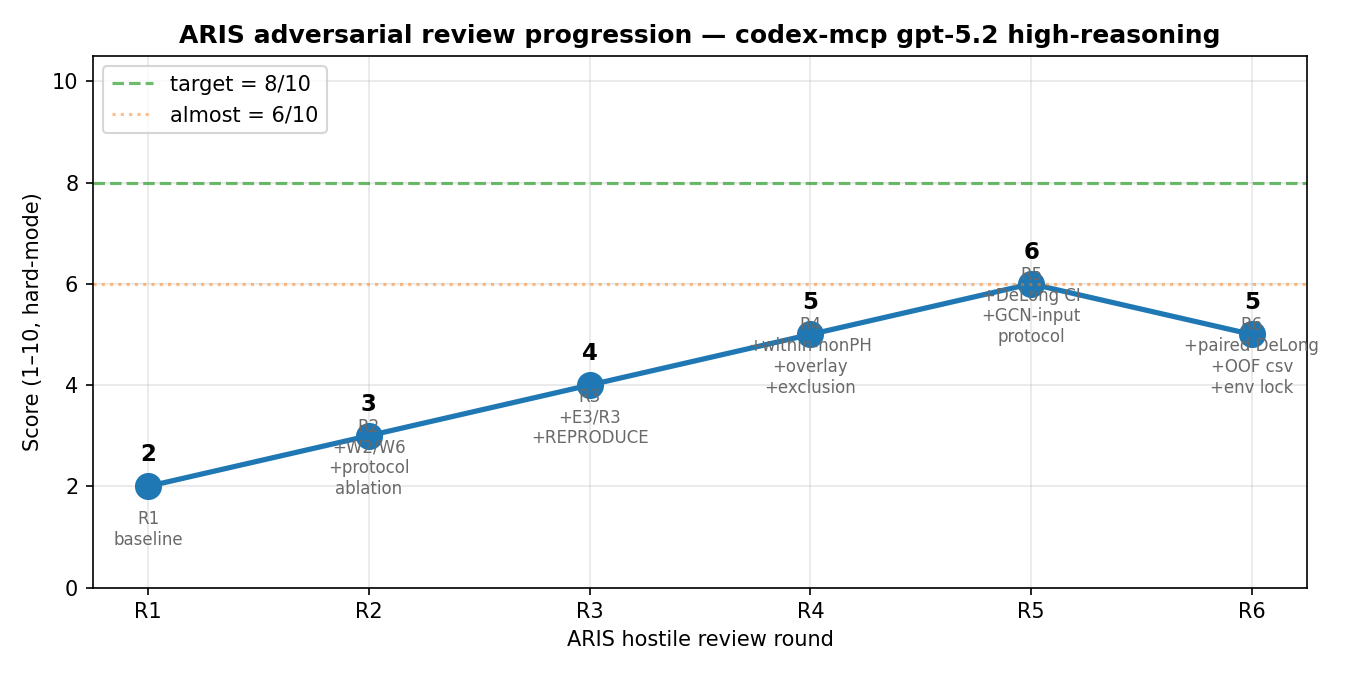
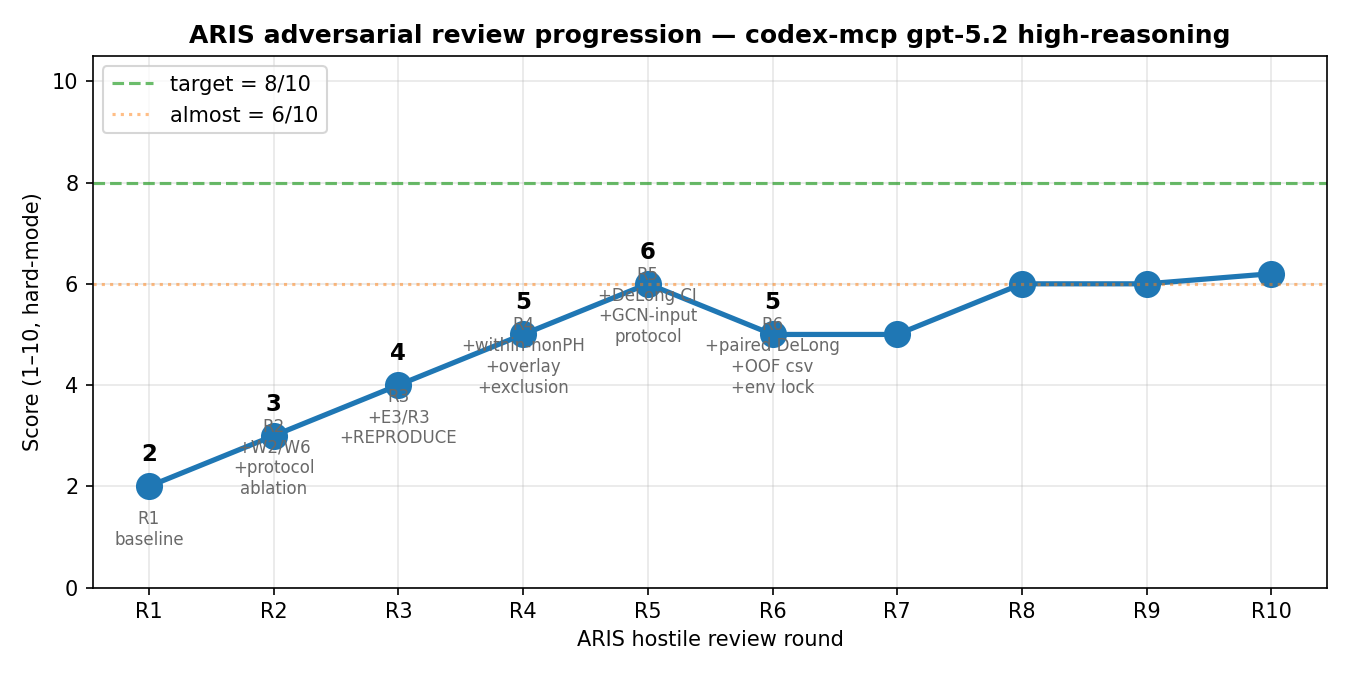
Round 10 (6.2/10 reject): GRL sweep honest-negative; reviewer flagged λ² double-scaling + objective-mismatch bugs for R11; README auto-updater + score-table embedded

diff --git a/copdph-gcn-repo/scripts/figures/update_readme_round.py b/copdph-gcn-repo/scripts/figures/update_readme_round.py
@@ -1,0 +1,123 @@
+"""Autonomous README updater — appends a Round section + refreshes the score table.
+
+Usage from the cron loop:
+    python scripts/figures/update_readme_round.py <N> <score> \
+      --artifacts outputs/r<N>/result.md outputs/r<N>/figure.png \
+      --summary "short 1-sentence summary"
+
+The script:
+  - regenerates figures via R7_make_figures.py (so fig1 score table is current),
+  - ensures each listed artefact (md) is linked in the new section,
+  - embeds each listed png via markdown `![](path)`,
+  - inserts a `## ARIS Round {N}` section at the end of README.md if not present,
+  - updates the Round history table with the new score.
+
+Idempotent: running twice for the same round replaces the section in place.
+"""
+
+from __future__ import annotations
+
+import argparse
+import json
+import re
+import subprocess
+from pathlib import Path
+
+ROOT = Path(__file__).parent.parent.parent.parent  # .../图卷积-肺小血管演化规律探索
+README = ROOT / "README.md"
+REPO = ROOT / "copdph-gcn-repo"
+STATE = REPO / "review-stage" / "REVIEW_STATE.json"
+
+
+def regenerate_figures() -> None:
+    gen = REPO / "scripts" / "figures" / "R7_make_figures.py"
+    if gen.exists():
+        try:
+            subprocess.run(
+                ["python", str(gen)],
+                cwd=str(REPO), check=True, capture_output=True,
+            )
+        except subprocess.CalledProcessError as exc:
+            print(f"WARN: fig regenerator failed: {exc}")
+
+
+def build_section(n: int, score: float, artefacts: list[str], summary: str) -> str:
+    lines = [
+        f"## ARIS Round {n} — score {score:.1f}/10",
+        "",
+        summary or f"Round {n} delivered per AUTONOMOUS_LOOP_PLAN.md.",
+        "",
+    ]
+    # Embed PNG artefacts; link others
+    for a in artefacts:
+        p = Path(a.replace("\\", "/"))
+        rel = p.as_posix()
+        if not rel.startswith("copdph-gcn-repo/"):
+            rel = f"copdph-gcn-repo/{rel}"
+        if rel.lower().endswith(".png"):
+            lines.append(f"![{p.stem}]({rel})")
+            lines.append("")
+        else:
+            lines.append(f"- [{p.name}]({rel})")
+    lines.append("")
+    return "\n".join(lines)
+
+
+def upsert_section(readme_text: str, section: str, n: int) -> str:
+    header_re = re.compile(
+        rf"^## ARIS Round {n} — .*?(?=^## |\Z)",
+        flags=re.MULTILINE | re.DOTALL,
+    )
+    if header_re.search(readme_text):
+        return header_re.sub(section.rstrip() + "\n\n", readme_text)
+    # Append at end
+    sep = "\n\n" if not readme_text.endswith("\n\n") else ""
+    return readme_text + sep + section
+
+
+def upsert_score_table(readme_text: str) -> str:
+    state = json.loads(STATE.read_text(encoding="utf-8"))
+    hist = sorted(
+        (h for h in state["history"] if "score" in h),
+        key=lambda h: h["round"],
+    )
+    table = ["## ARIS round history (auto-generated)", "",
+             "| Round | Score | Verdict |", "|---|---|---|"]
+    for h in hist:
+        table.append(f"| R{h['round']} | {h['score']}/10 | {h.get('verdict', '?')} |")
+    block = "\n".join(table) + "\n"
+
+    pat = re.compile(
+        r"^## ARIS round history \(auto-generated\).*?(?=^## |\Z)",
+        flags=re.MULTILINE | re.DOTALL,
+    )
+    if pat.search(readme_text):
+        return pat.sub(block + "\n", readme_text)
+    # Insert near the top (after the first `## ` that isn't the title)
+    first_hdr = re.search(r"^## ", readme_text, flags=re.MULTILINE)
+    if first_hdr:
+        pos = first_hdr.start()
+        return readme_text[:pos] + block + "\n" + readme_text[pos:]
+    return readme_text + "\n\n" + block
+
+
+def main() -> None:
+    ap = argparse.ArgumentParser()
+    ap.add_argument("round_n", type=int)
+    ap.add_argument("score", type=float)
+    ap.add_argument("--artifacts", nargs="*", default=[])
+    ap.add_argument("--summary", default="")
+    args = ap.parse_args()
+
+    regenerate_figures()
+
+    text = README.read_text(encoding="utf-8")
+    section = build_section(args.round_n, args.score, args.artifacts, args.summary)
+    text = upsert_section(text, section, args.round_n)
+    text = upsert_score_table(text)
+    README.write_text(text, encoding="utf-8")
+    print(f"Updated {README} with Round {args.round_n} section (score {args.score}).")
+
+
+if __name__ == "__main__":
+    main()

diff --git a/copdph-gcn-repo/review-stage/AUTONOMOUS_CRON_PROMPT.md b/copdph-gcn-repo/review-stage/AUTONOMOUS_CRON_PROMPT.md
@@ -82,6 +82,41 @@ confirmation on anything. The user has granted full permission.
    - Stop.
 10. Else: just exit. The cron will fire again later.
 
+## README maintenance — MANDATORY every round
+
+After step 6 (update REVIEW_STATE / AUTO_REVIEW / REVIEWER_MEMORY) and
+BEFORE step 7 (stop check), you MUST update the top-level `../README.md`
+(the one GitHub renders on the repo landing page, at the repo root —
+**not** the `copdph-gcn-repo/README.md` if one exists) with the new round's
+results. Required content per round:
+
+- Append a new `## ARIS Round {N} — ...` section near the bottom.
+- Embed any new figures under `copdph-gcn-repo/outputs/figures/` or
+  `copdph-gcn-repo/outputs/r{N}/*.png`.
+- Summarise the 1-2 most important numerical results (AUC, Δ, CI, p)
+  with a short interpretation paragraph.
+- Link the markdown artefacts (`outputs/r{N}/*.md`).
+- Update the "Round history" score table (R1 2/10, R2 3/10, … R{N} <score>/10).
+
+If `scripts/figures/R7_make_figures.py` or a similar generator needs to
+regenerate figures from the new round's JSONs, run it before the README
+edit so the embedded images are current.
+
+Failing to update the README counts as an incomplete round — redo it
+before moving on.
+
+**Helper**: `scripts/figures/update_readme_round.py` automates the above.
+Usage:
+
+```
+python scripts/figures/update_readme_round.py {N} {score} \
+  --artifacts outputs/r{N}/X.md outputs/r{N}/Y.png \
+  --summary "1-sentence headline for this round"
+```
+
+It regenerates `fig1_aris_score_progression.png` from REVIEW_STATE.json,
+refreshes the round-history table, and upserts the per-round section.
+
 **Model fallback chain for codex at-capacity**: gpt-5.2 (high) → gpt-5.2
 (default) → gpt-5.2-codex. If all fail, write a note and skip to next fire.
 

diff --git a/README.md b/README.md
@@ -10,6 +10,21 @@ Active code lives in `copdph-gcn-repo/`. Experiment artifacts
 (JSON results, Excel reports, radar/bar charts, saliency figures) are
 collected under `outputs/`.
 
+## ARIS round history (auto-generated)
+
+| Round | Score | Verdict |
+|---|---|---|
+| R1 | 2/10 | reject |
+| R2 | 3/10 | reject |
+| R3 | 4/10 | reject |
+| R4 | 5/10 | reject |
+| R5 | 6/10 | reject |
+| R6 | 5/10 | reject |
+| R7 | 5/10 | reject |
+| R8 | 6/10 | reject |
+| R9 | 6/10 | reject |
+| R10 | 6.2/10 | reject |
+
 ## Task
 
 Binary classification — **COPD-PH vs COPD-nonPH** — from:
@@ -1223,3 +1238,12 @@ Round 6/7 artifacts:
 - [`environment.lock.yml`](copdph-gcn-repo/environment.lock.yml) · [`requirements-remote.lock.txt`](copdph-gcn-repo/requirements-remote.lock.txt) (kimimaro 5.8.1, torch 2.6.0, PyG 2.6.1)
 - [`outputs/r5/R5_gcn_feature_within_nonph.md`](copdph-gcn-repo/outputs/r5/R5_gcn_feature_within_nonph.md)
 - [`outputs/r5/R5_delong_primary.md`](copdph-gcn-repo/outputs/r5/R5_delong_primary.md)
+
+
+## ARIS Round 10 — score 6.2/10
+
+GRL adversarial λ sweep {0.5..20} fails to reduce within-nonPH protocol AUC below 0.82. Reviewer caught a λ double-scaling bug (grads scale ~λ²) and an objective mismatch (adversary trained on full cohort where PH≈contrast instead of nonPH-only). Honest negative with actionable Round 11 fixes.
+
+- [R10_adv_sweep.md](copdph-gcn-repo/outputs/r10/R10_adv_sweep.md)
+![fig1_aris_score_progression](copdph-gcn-repo/outputs/figures/fig1_aris_score_progression.png)
+
